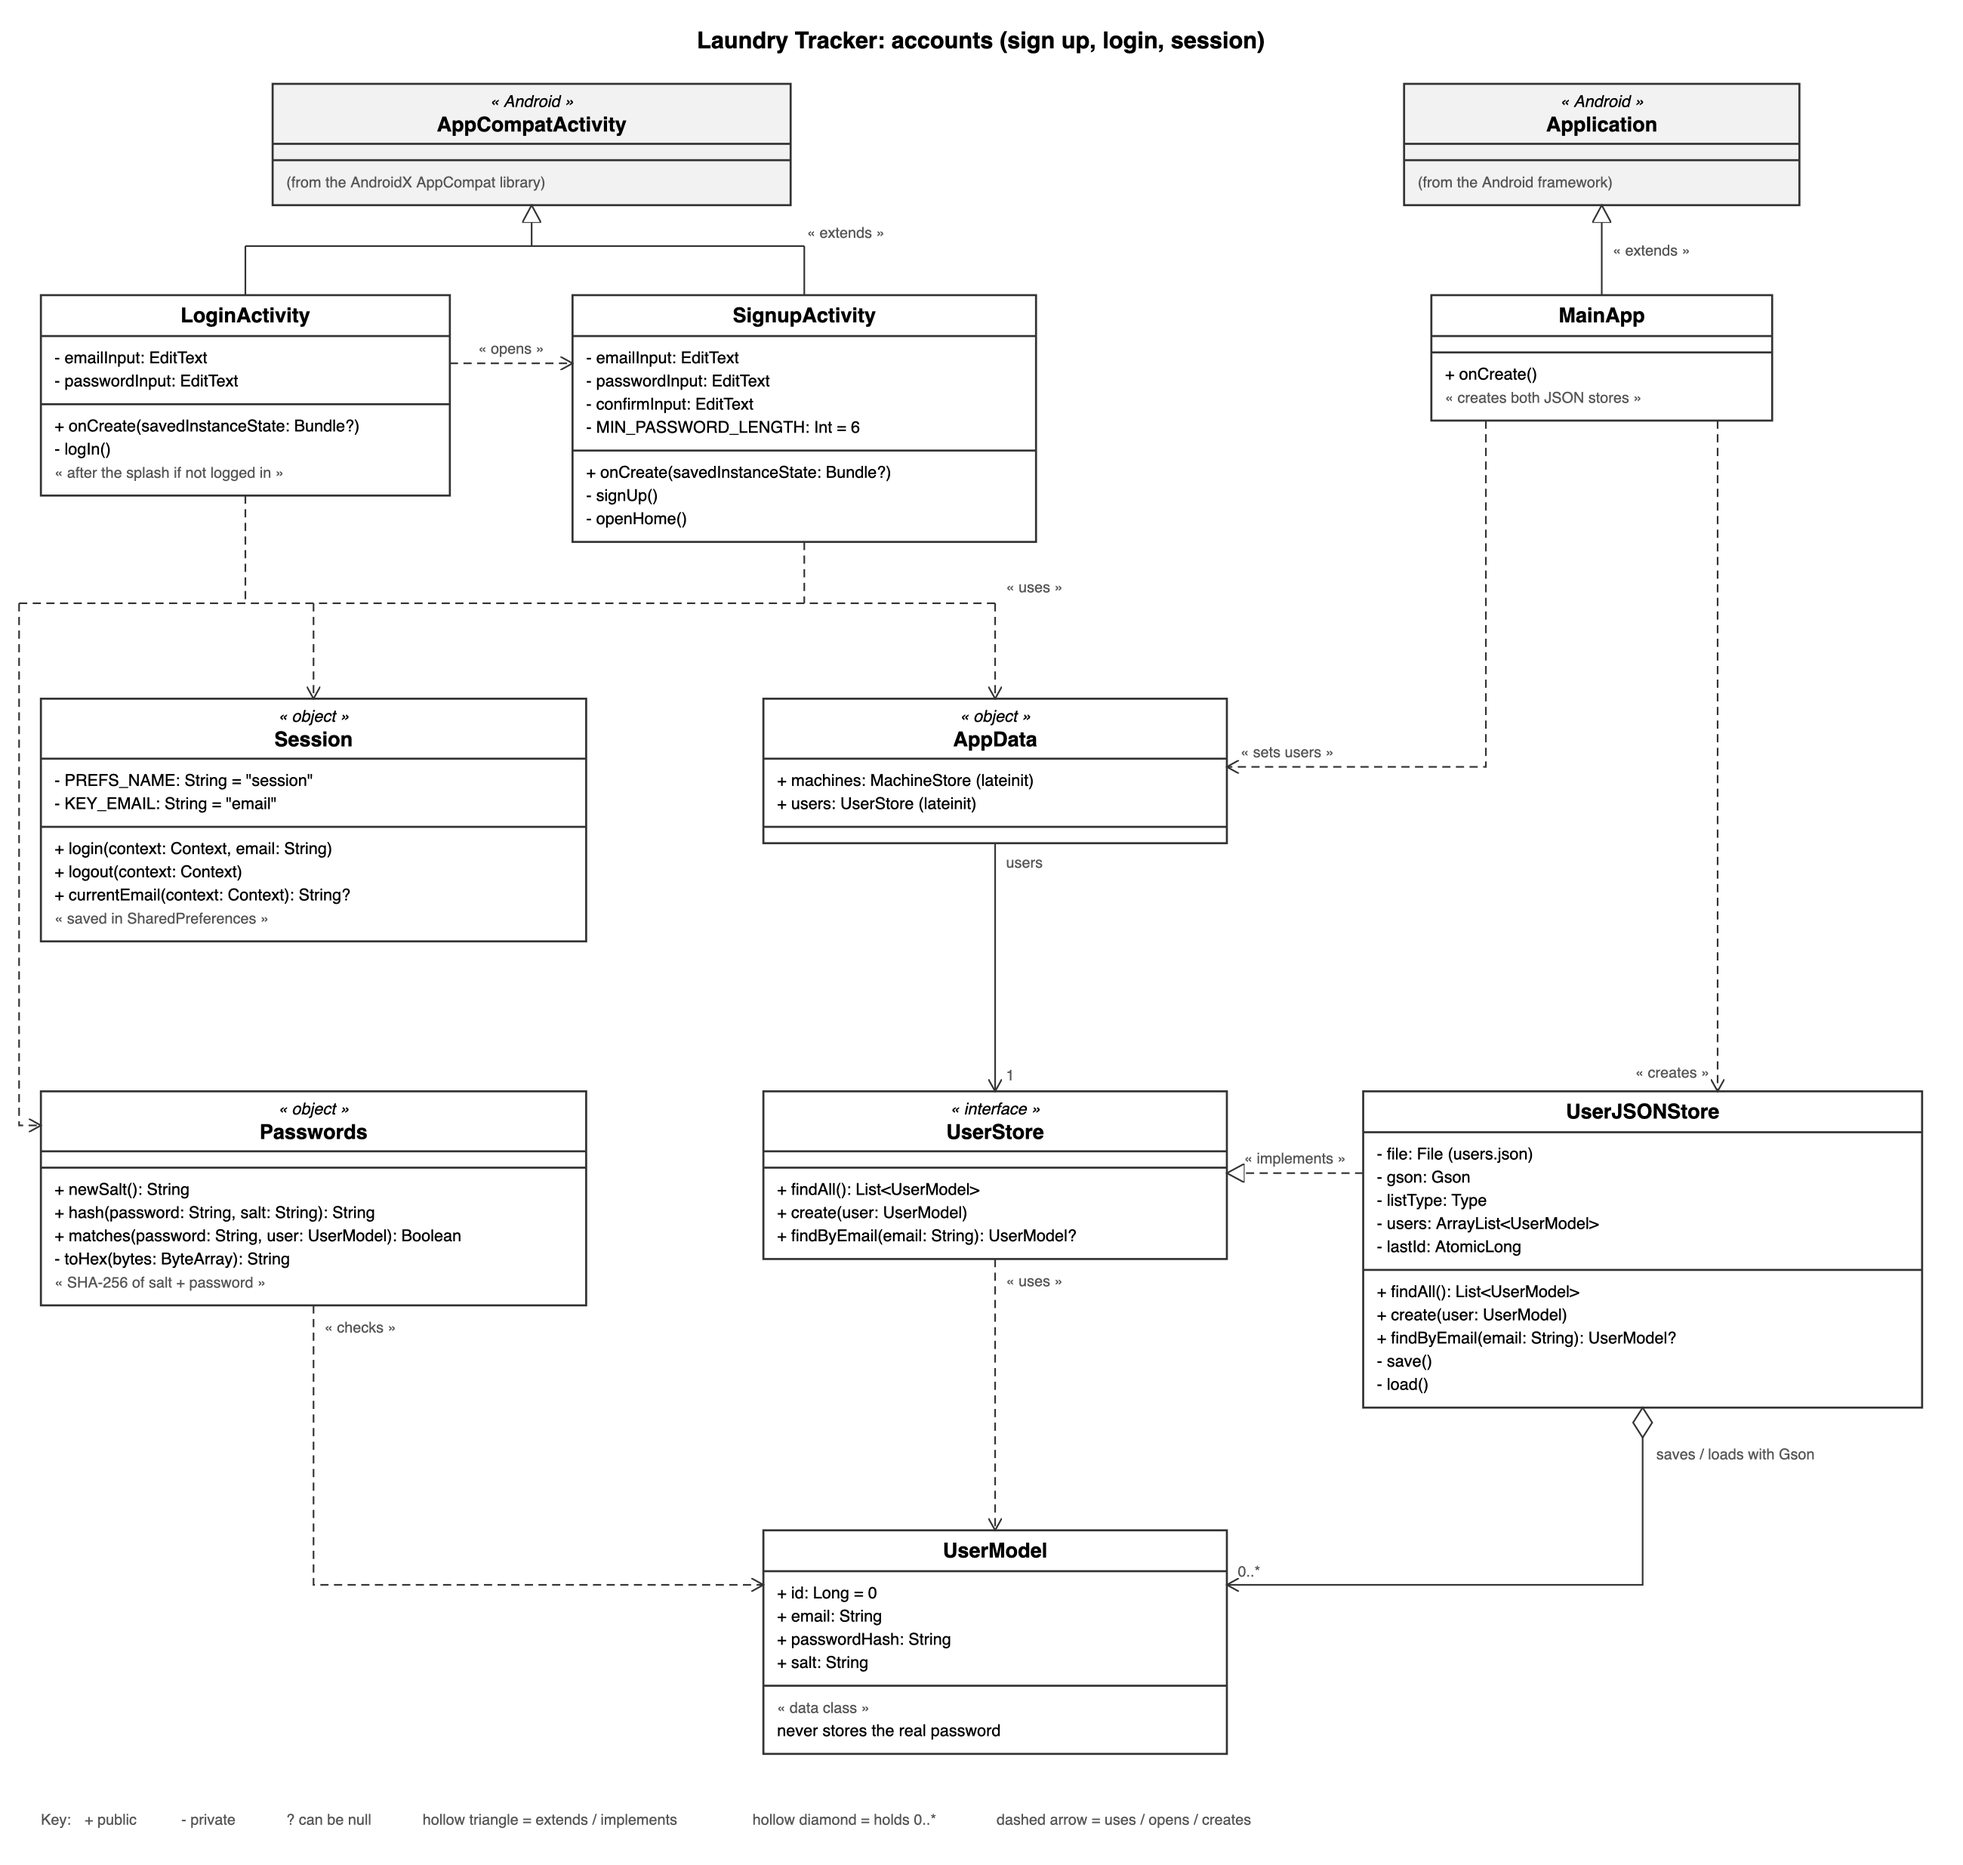
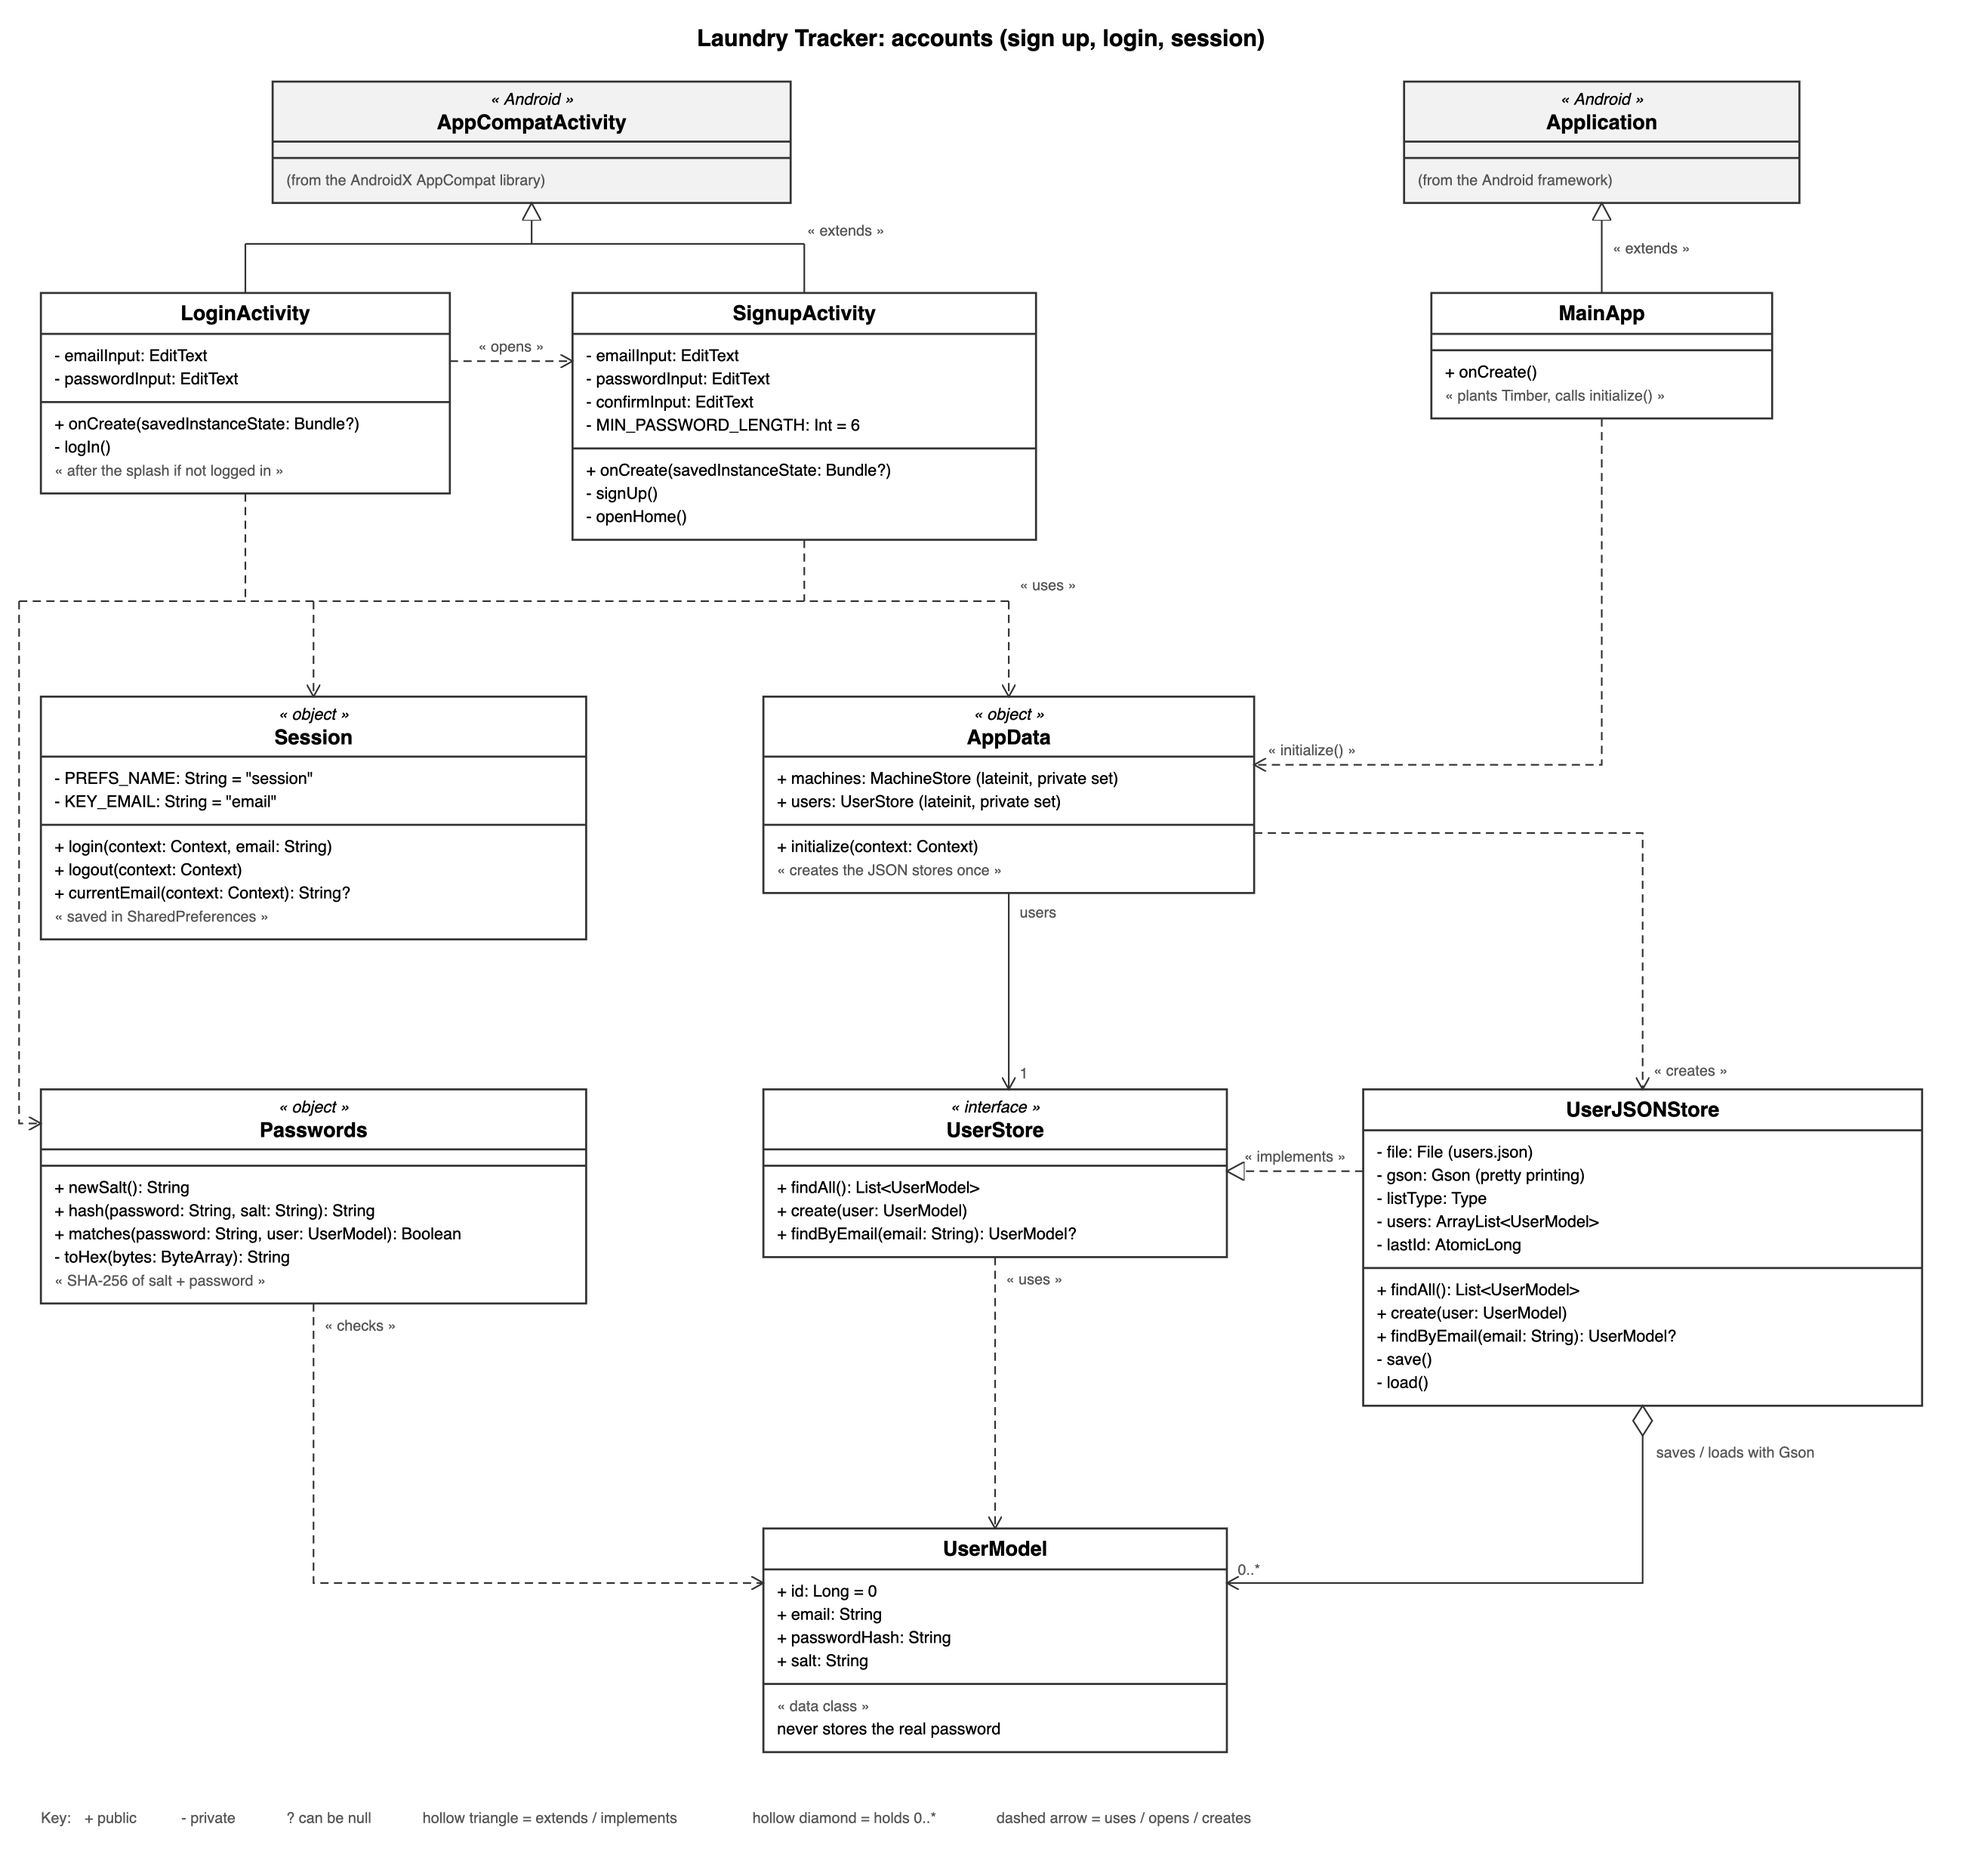
docs: add lab-style persistence and Timber logging to README and UML

diff --git a/README.md b/README.md
@@ -16,7 +16,8 @@ Laundry Tracker is a Kotlin Android app for keeping track of the laundry machine
 - **Back navigation** between Home → Machines → Add/Edit, and an up arrow on the Add/Edit form
 - **Machine photos**: pick a photo from the phone or take one with the camera; it shows on the form and as a thumbnail in the list
 - **Data validation**: a machine must have a name; sign up checks the email, password length and that both passwords match
-- **Saved to JSON**: machines are kept in `machines.json` and are still there after the app is closed
+- **Saved to JSON**: machines and accounts are kept in pretty-printed `machines.json` and `users.json` and are still there after the app is closed
+- **Logging with Timber**: the stores and the main actions on each screen write to Logcat (passwords are never logged)
 - **Unit tests** for the machine stores and the user store
 
 ## Screens
@@ -39,7 +40,7 @@ Laundry Tracker is a Kotlin Android app for keeping track of the laundry machine
 - The screens extend `AppCompatActivity`. Home and Machines extend it through `DrawerActivity`, an abstract class that sets up the navigation drawer once for both: the ☰ button, the drawer items, About and Log out. Each screen sets `currentNavItem` so its item is highlighted. `SplashActivity` is the launcher screen. After 2 seconds it opens Home if someone is logged in, or Login if not, then finishes so Back doesn't return to it. Home opens the list, and the list opens the form (sending the machine's id when editing).
 - The machines list uses a `RecyclerView` with `MachineAdapter`, which turns each `MachineModel` into a row from `item_machine.xml`.
 - Every screen uses the same store through `AppData.machines`, typed as the `MachineStore` interface.
-- `MainApp` (an `Application` class) runs once when the app starts and sets `AppData.machines` to a `MachineJSONStore` and `AppData.users` to a `UserJSONStore`.
+- `MainApp` (an `Application` class) runs once when the app starts. It plants Timber and calls `AppData.initialize(context)`, which creates a `MachineJSONStore` and a `UserJSONStore` once. `AppData`'s stores have a `private set`, so only `initialize()` can set them (the same pattern as the PlacedMark lab).
 - `MachineJSONStore` and `MachineMemStore` both implement `MachineStore`. The JSON store saves to a file with Gson; the memory store is used in the unit tests.
 - `AddEditActivity` picks a photo with the `OpenDocument` contract (keeping access with `takePersistableUriPermission`) or takes one with the `TakePicture` contract through a `FileProvider`. The photo's uri is saved in `MachineModel.imageUri`.
 
@@ -69,7 +70,7 @@ app/src/main/java/org/setu/laundrytracker/
 
 ## Persistence
 
-Machines are saved by `MachineJSONStore` to `machines.json` in the app's private storage (`/data/data/org.setu.laundrytracker/files/`). The whole list is written after every add, edit or delete and read back when the app starts. New ids carry on from the highest saved id, so an id is never reused.
+Machines are saved by `MachineJSONStore` to `machines.json` in the app's private storage (`/data/data/org.setu.laundrytracker/files/`). The whole list is written after every add, edit or delete and read back when the app starts. New ids carry on from the highest saved id, so an id is never reused. The JSON is pretty-printed with `GsonBuilder().setPrettyPrinting()` so it's easy to read, the folder is created before saving if needed, and a broken file starts an empty list instead of crashing.
 
 Accounts are saved the same way by `UserJSONStore` to `users.json`. Each user is stored as an email, a password hash and a salt.
 
@@ -78,6 +79,18 @@ Photos picked from the phone are saved as their `content://` uri. Photos taken w
 Who is logged in is kept in SharedPreferences (`shared_prefs/session.xml`).
 
 To see the files, open **View → Tool Windows → Device Explorer** in Android Studio and go to `data/data/org.setu.laundrytracker/`.
+
+## Logging
+
+The app logs with [Timber](https://github.com/JakeWharton/timber), planted once in `MainApp`. Open **Logcat** in Android Studio and filter by `org.setu.laundrytracker` to see messages like:
+
+```
+D/MachineJSONStore: load: 3 machines from machines.json
+D/LoginActivity: Login ok for test@example.com
+D/MachineJSONStore: create: id=5, name=Washer 4
+```
+
+Logins and sign ups only log the email and whether it worked. Passwords, hashes and salts are never logged.
 
 ## Running the app
 
@@ -97,10 +110,11 @@ Unit tests are in `app/src/test/java/org/setu/laundrytracker/models/`:
 - `MachineMemStoreTest`: create, update, delete and cycle length on the in-memory store
 - `MachineJSONStoreTest`: saves to a temporary file, then reopens it to check machines, edits, deletes, ids and photos are kept, and that machines saved before photos existed still load
 - `UserJSONStoreTest`: users are kept after reopening, email lookup ignores capitals, the password isn't saved as plain text, right/wrong passwords, and a broken file doesn't crash
+- Both JSON store tests also check the file is pretty-printed and that saving into a folder that doesn't exist yet works
 
 ## Built with
 
-Kotlin, AndroidX AppCompat, Material Components (NavigationView), DrawerLayout, RecyclerView, Activity Result APIs, FileProvider, Gson, JUnit.
+Kotlin, AndroidX AppCompat, Material Components (NavigationView), DrawerLayout, RecyclerView, Activity Result APIs, FileProvider, Gson, Timber, JUnit.
 
 ## Development
 
